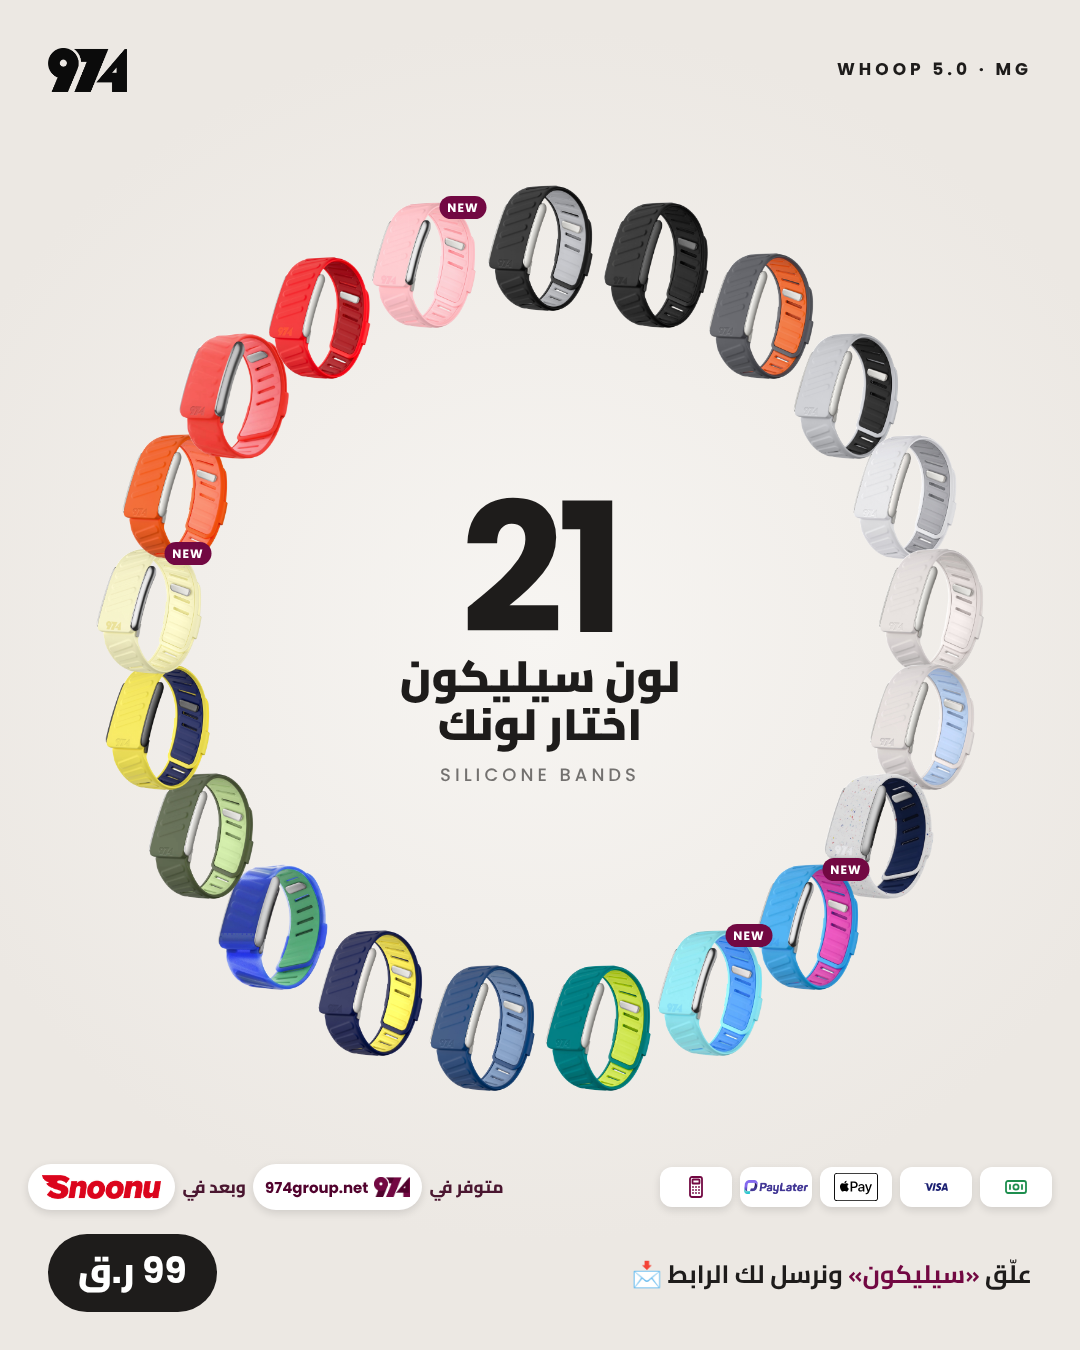
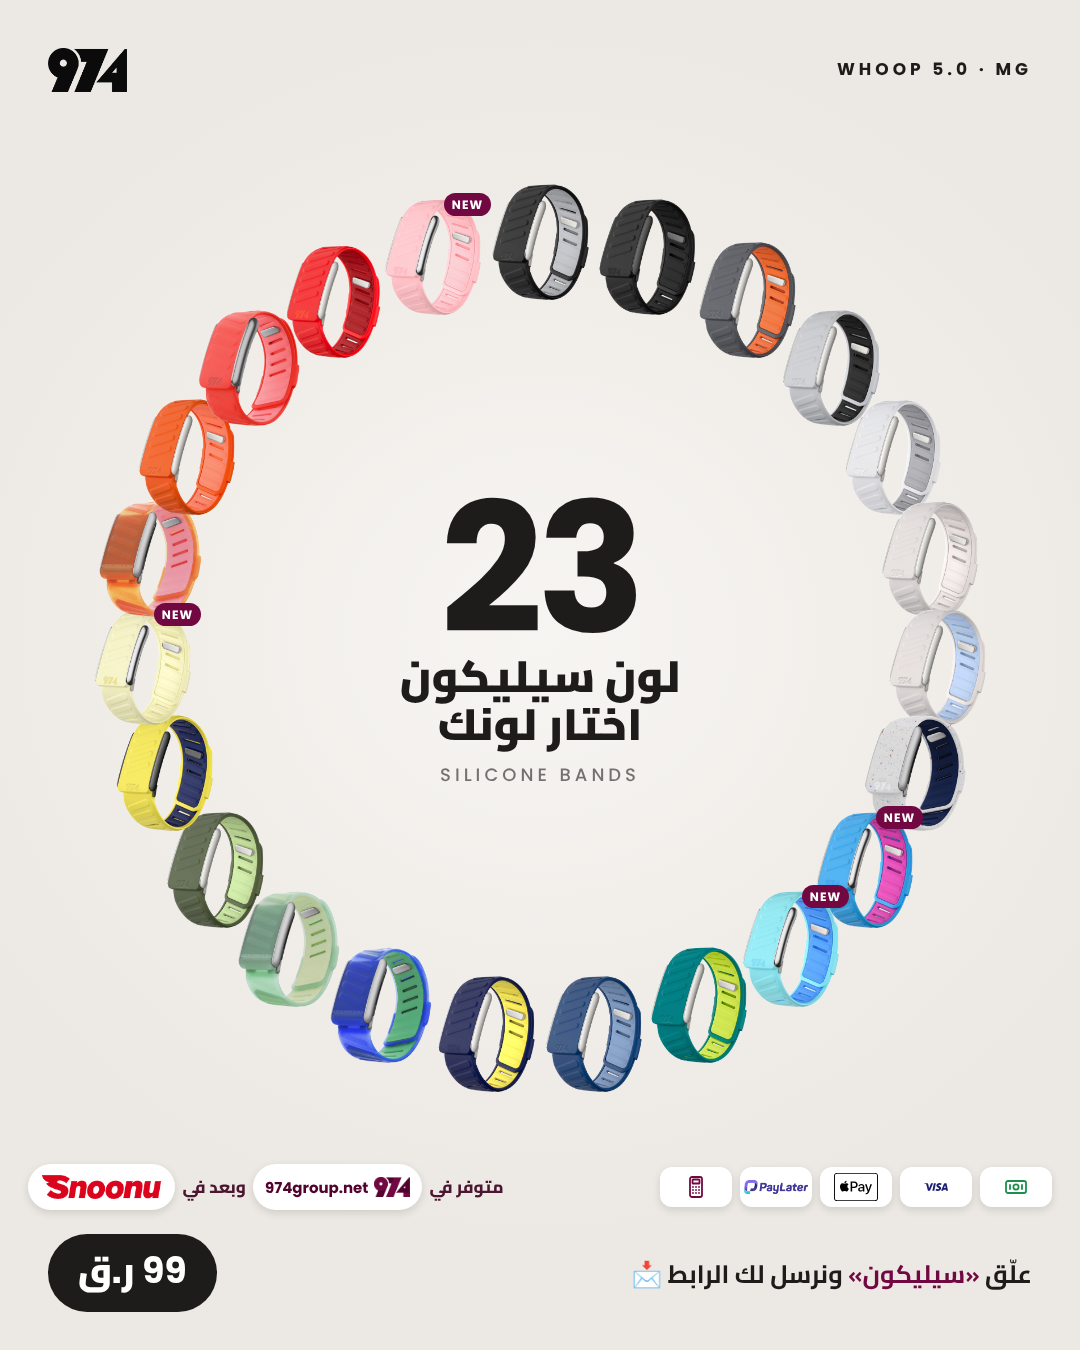
Silicone ring: add Drenched Green + Orange (23 colours)
Claude-Session: https://claude.ai/code/session_01K6HDWNrArsGSJekW1VcEzV

Changed region(s): [[0.0917, 0.1244, 0.9167, 0.8089], [0.3972, 0.3733, 0.6111, 0.4667]]

diff --git a/posts/2026-11/whoop5-silicone-all/974-w5-silicone-all-story.html b/posts/2026-11/whoop5-silicone-all/974-w5-silicone-all-story.html
@@ -35,8 +35,8 @@ body{width:1080px;height:1920px;background:radial-gradient(60% 45% at 50% 50%,#F
 </style></head><body>
 <img class="abs" src="file:///home/claude/974-social/posts/2026-11/pilates-socks/src/logo-black.png" style="left:48px;top:200px;height:44px">
 <div class="abs en" style="right:48px;top:208px;font-weight:700;font-size:17px;letter-spacing:4px">WHOOP 5.0 · MG</div>
-<div class="b" style="left:540px;top:540px;height:142px"><img src="file:///home/claude/974-social/posts/2026-11/whoop5-silicone-all/cut/black.png"></div><div class="b" style="left:664px;top:559px;height:142px"><img src="file:///home/claude/974-social/posts/2026-11/whoop5-silicone-all/cut/black-ed.png"></div><div class="b" style="left:777px;top:613px;height:142px"><img src="file:///home/claude/974-social/posts/2026-11/whoop5-silicone-all/cut/darkgrey.png"></div><div class="b" style="left:868px;top:698px;height:142px"><img src="file:///home/claude/974-social/posts/2026-11/whoop5-silicone-all/cut/greyblack.png"></div><div class="b" style="left:931px;top:807px;height:142px"><img src="file:///home/claude/974-social/posts/2026-11/whoop5-silicone-all/cut/whitegrey.png"></div><div class="b" style="left:959px;top:929px;height:142px"><img src="file:///home/claude/974-social/posts/2026-11/whoop5-silicone-all/cut/creamy.png"></div><div class="b" style="left:949px;top:1053px;height:142px"><img src="file:///home/claude/974-social/posts/2026-11/whoop5-silicone-all/cut/creamyblue.png"></div><div class="b" style="left:904px;top:1170px;height:142px"><img src="file:///home/claude/974-social/posts/2026-11/whoop5-silicone-all/cut/splash.png"></div><div class="b" style="left:826px;top:1268px;height:142px"><img src="file:///home/claude/974-social/posts/2026-11/whoop5-silicone-all/cut/babyblue.png"></div><div class="b" style="left:722px;top:1338px;height:142px"><img src="file:///home/claude/974-social/posts/2026-11/whoop5-silicone-all/cut/iceblue.png"></div><div class="b" style="left:603px;top:1375px;height:142px"><img src="file:///home/claude/974-social/posts/2026-11/whoop5-silicone-all/cut/turquoise.png"></div><div class="b" style="left:477px;top:1375px;height:142px"><img src="file:///home/claude/974-social/posts/2026-11/whoop5-silicone-all/cut/blue.png"></div><div class="b" style="left:358px;top:1338px;height:142px"><img src="file:///home/claude/974-social/posts/2026-11/whoop5-silicone-all/cut/navyyellow.png"></div><div class="b" style="left:254px;top:1268px;height:142px"><img src="file:///home/claude/974-social/posts/2026-11/whoop5-silicone-all/cut/drenched.png"></div><div class="b" style="left:176px;top:1170px;height:142px"><img src="file:///home/claude/974-social/posts/2026-11/whoop5-silicone-all/cut/greenarmy.png"></div><div class="b" style="left:131px;top:1053px;height:142px"><img src="file:///home/claude/974-social/posts/2026-11/whoop5-silicone-all/cut/yellownavy.png"></div><div class="b" style="left:121px;top:929px;height:142px"><img src="file:///home/claude/974-social/posts/2026-11/whoop5-silicone-all/cut/yellow.png"></div><div class="b" style="left:149px;top:807px;height:142px"><img src="file:///home/claude/974-social/posts/2026-11/whoop5-silicone-all/cut/orange.png"></div><div class="b" style="left:212px;top:698px;height:142px"><img src="file:///home/claude/974-social/posts/2026-11/whoop5-silicone-all/cut/scarlet.png"></div><div class="b" style="left:303px;top:613px;height:142px"><img src="file:///home/claude/974-social/posts/2026-11/whoop5-silicone-all/cut/red.png"></div><div class="b" style="left:416px;top:559px;height:142px"><img src="file:///home/claude/974-social/posts/2026-11/whoop5-silicone-all/cut/pink.png"></div><div class="b" style="left:826px;top:1268px;height:142px;width:118px;z-index:5"><span class="nw">NEW</span></div><div class="b" style="left:722px;top:1338px;height:142px;width:118px;z-index:5"><span class="nw">NEW</span></div><div class="b" style="left:121px;top:929px;height:142px;width:118px;z-index:5"><span class="nw">NEW</span></div><div class="b" style="left:416px;top:559px;height:142px;width:118px;z-index:5"><span class="nw">NEW</span></div>
-<div class="mid"><b>21</b><i>لون سيليكون<br>اختار لونك</i><em>SILICONE BANDS</em></div>
+<div class="b" style="left:540px;top:510px;height:128px"><img src="file:///home/claude/974-social/posts/2026-11/whoop5-silicone-all/cut/black.png"></div><div class="b" style="left:661px;top:527px;height:128px"><img src="file:///home/claude/974-social/posts/2026-11/whoop5-silicone-all/cut/black-ed.png"></div><div class="b" style="left:774px;top:576px;height:128px"><img src="file:///home/claude/974-social/posts/2026-11/whoop5-silicone-all/cut/darkgrey.png"></div><div class="b" style="left:869px;top:653px;height:128px"><img src="file:///home/claude/974-social/posts/2026-11/whoop5-silicone-all/cut/greyblack.png"></div><div class="b" style="left:940px;top:753px;height:128px"><img src="file:///home/claude/974-social/posts/2026-11/whoop5-silicone-all/cut/whitegrey.png"></div><div class="b" style="left:981px;top:868px;height:128px"><img src="file:///home/claude/974-social/posts/2026-11/whoop5-silicone-all/cut/creamy.png"></div><div class="b" style="left:989px;top:991px;height:128px"><img src="file:///home/claude/974-social/posts/2026-11/whoop5-silicone-all/cut/creamyblue.png"></div><div class="b" style="left:964px;top:1111px;height:128px"><img src="file:///home/claude/974-social/posts/2026-11/whoop5-silicone-all/cut/splash.png"></div><div class="b" style="left:908px;top:1220px;height:128px"><img src="file:///home/claude/974-social/posts/2026-11/whoop5-silicone-all/cut/babyblue.png"></div><div class="b" style="left:824px;top:1309px;height:128px"><img src="file:///home/claude/974-social/posts/2026-11/whoop5-silicone-all/cut/iceblue.png"></div><div class="b" style="left:719px;top:1373px;height:128px"><img src="file:///home/claude/974-social/posts/2026-11/whoop5-silicone-all/cut/turquoise.png"></div><div class="b" style="left:601px;top:1406px;height:128px"><img src="file:///home/claude/974-social/posts/2026-11/whoop5-silicone-all/cut/blue.png"></div><div class="b" style="left:479px;top:1406px;height:128px"><img src="file:///home/claude/974-social/posts/2026-11/whoop5-silicone-all/cut/navyyellow.png"></div><div class="b" style="left:361px;top:1373px;height:128px"><img src="file:///home/claude/974-social/posts/2026-11/whoop5-silicone-all/cut/drenched.png"></div><div class="b" style="left:256px;top:1309px;height:128px"><img src="file:///home/claude/974-social/posts/2026-11/whoop5-silicone-all/cut/drenched-green.png"></div><div class="b" style="left:172px;top:1220px;height:128px"><img src="file:///home/claude/974-social/posts/2026-11/whoop5-silicone-all/cut/greenarmy.png"></div><div class="b" style="left:116px;top:1111px;height:128px"><img src="file:///home/claude/974-social/posts/2026-11/whoop5-silicone-all/cut/yellownavy.png"></div><div class="b" style="left:91px;top:991px;height:128px"><img src="file:///home/claude/974-social/posts/2026-11/whoop5-silicone-all/cut/yellow.png"></div><div class="b" style="left:99px;top:868px;height:128px"><img src="file:///home/claude/974-social/posts/2026-11/whoop5-silicone-all/cut/drenched-orange.png"></div><div class="b" style="left:140px;top:753px;height:128px"><img src="file:///home/claude/974-social/posts/2026-11/whoop5-silicone-all/cut/orange.png"></div><div class="b" style="left:211px;top:653px;height:128px"><img src="file:///home/claude/974-social/posts/2026-11/whoop5-silicone-all/cut/scarlet.png"></div><div class="b" style="left:306px;top:576px;height:128px"><img src="file:///home/claude/974-social/posts/2026-11/whoop5-silicone-all/cut/red.png"></div><div class="b" style="left:419px;top:527px;height:128px"><img src="file:///home/claude/974-social/posts/2026-11/whoop5-silicone-all/cut/pink.png"></div><div class="b" style="left:908px;top:1220px;height:128px;width:106px;z-index:5"><span class="nw">NEW</span></div><div class="b" style="left:824px;top:1309px;height:128px;width:106px;z-index:5"><span class="nw">NEW</span></div><div class="b" style="left:91px;top:991px;height:128px;width:106px;z-index:5"><span class="nw">NEW</span></div><div class="b" style="left:419px;top:527px;height:128px;width:106px;z-index:5"><span class="nw">NEW</span></div>
+<div class="mid"><b>23</b><i>لون سيليكون<br>اختار لونك</i><em>SILICONE BANDS</em></div>
 <div class="pf"><div class="payfoot"><div class="pills">
 <div class="ch"><div class="lg"><svg viewBox="0 0 24 24" style="height:54px" fill="none" stroke="#1E8E4E" stroke-width="1.8" stroke-linecap="round" stroke-linejoin="round"><rect x="2" y="6" width="20" height="12" rx="2"/><circle cx="12" cy="12" r="2.6"/><path d="M6 10v4M18 10v4"/></svg></div><i>كاش</i></div>
 <div class="ch"><div class="lg"><svg fill="#1A1F71" style="height:120px;width:150px" xmlns="http://www.w3.org/2000/svg" viewBox="0 0 24 24"><path d="M9.112 8.262 5.97 15.758H3.92L2.374 9.775c-.094-.368-.175-.503-.461-.658C1.447 8.864.677 8.627 0 8.479l.046-.217h3.3a.904.904 0 0 1 .894.764l.817 4.338 2.018-5.102zm8.033 5.049c.008-1.979-2.736-2.088-2.717-2.972.006-.269.262-.555.822-.628a3.66 3.66 0 0 1 1.913.336l.34-1.59a5.2 5.2 0 0 0-1.814-.333c-1.917 0-3.266 1.02-3.278 2.479-.012 1.079.963 1.68 1.698 2.04.756.367 1.01.603 1.006.931-.005.504-.602.725-1.16.734-.975.015-1.54-.263-1.992-.473l-.351 1.642c.453.208 1.289.39 2.156.398 2.037 0 3.37-1.006 3.377-2.564m5.061 2.447H24l-1.565-7.496h-1.656a.88.88 0 0 0-.826.55l-2.909 6.946h2.036l.405-1.12h2.488zm-2.163-2.656 1.02-2.815.588 2.815zm-8.16-4.84-1.603 7.496H8.34l1.605-7.496z"/></svg></div><i>Visa</i></div>

diff --git a/posts/2026-11/whoop5-silicone-all/974-w5-silicone-all-post.html b/posts/2026-11/whoop5-silicone-all/974-w5-silicone-all-post.html
@@ -35,8 +35,8 @@ body{width:1080px;height:1350px;background:radial-gradient(60% 45% at 50% 47%,#F
 </style></head><body>
 <img class="abs" src="file:///home/claude/974-social/posts/2026-11/pilates-socks/src/logo-black.png" style="left:48px;top:48px;height:44px">
 <div class="abs en" style="right:48px;top:56px;font-weight:700;font-size:17px;letter-spacing:4px">WHOOP 5.0 · MG</div>
-<div class="b" style="left:540px;top:248px;height:126px"><img src="file:///home/claude/974-social/posts/2026-11/whoop5-silicone-all/cut/black.png"></div><div class="b" style="left:656px;top:265px;height:126px"><img src="file:///home/claude/974-social/posts/2026-11/whoop5-silicone-all/cut/black-ed.png"></div><div class="b" style="left:761px;top:316px;height:126px"><img src="file:///home/claude/974-social/posts/2026-11/whoop5-silicone-all/cut/darkgrey.png"></div><div class="b" style="left:846px;top:396px;height:126px"><img src="file:///home/claude/974-social/posts/2026-11/whoop5-silicone-all/cut/greyblack.png"></div><div class="b" style="left:905px;top:497px;height:126px"><img src="file:///home/claude/974-social/posts/2026-11/whoop5-silicone-all/cut/whitegrey.png"></div><div class="b" style="left:931px;top:611px;height:126px"><img src="file:///home/claude/974-social/posts/2026-11/whoop5-silicone-all/cut/creamy.png"></div><div class="b" style="left:922px;top:727px;height:126px"><img src="file:///home/claude/974-social/posts/2026-11/whoop5-silicone-all/cut/creamyblue.png"></div><div class="b" style="left:879px;top:836px;height:126px"><img src="file:///home/claude/974-social/posts/2026-11/whoop5-silicone-all/cut/splash.png"></div><div class="b" style="left:807px;top:927px;height:126px"><img src="file:///home/claude/974-social/posts/2026-11/whoop5-silicone-all/cut/babyblue.png"></div><div class="b" style="left:710px;top:993px;height:126px"><img src="file:///home/claude/974-social/posts/2026-11/whoop5-silicone-all/cut/iceblue.png"></div><div class="b" style="left:598px;top:1028px;height:126px"><img src="file:///home/claude/974-social/posts/2026-11/whoop5-silicone-all/cut/turquoise.png"></div><div class="b" style="left:482px;top:1028px;height:126px"><img src="file:///home/claude/974-social/posts/2026-11/whoop5-silicone-all/cut/blue.png"></div><div class="b" style="left:370px;top:993px;height:126px"><img src="file:///home/claude/974-social/posts/2026-11/whoop5-silicone-all/cut/navyyellow.png"></div><div class="b" style="left:273px;top:927px;height:126px"><img src="file:///home/claude/974-social/posts/2026-11/whoop5-silicone-all/cut/drenched.png"></div><div class="b" style="left:201px;top:836px;height:126px"><img src="file:///home/claude/974-social/posts/2026-11/whoop5-silicone-all/cut/greenarmy.png"></div><div class="b" style="left:158px;top:727px;height:126px"><img src="file:///home/claude/974-social/posts/2026-11/whoop5-silicone-all/cut/yellownavy.png"></div><div class="b" style="left:149px;top:611px;height:126px"><img src="file:///home/claude/974-social/posts/2026-11/whoop5-silicone-all/cut/yellow.png"></div><div class="b" style="left:175px;top:497px;height:126px"><img src="file:///home/claude/974-social/posts/2026-11/whoop5-silicone-all/cut/orange.png"></div><div class="b" style="left:234px;top:396px;height:126px"><img src="file:///home/claude/974-social/posts/2026-11/whoop5-silicone-all/cut/scarlet.png"></div><div class="b" style="left:319px;top:316px;height:126px"><img src="file:///home/claude/974-social/posts/2026-11/whoop5-silicone-all/cut/red.png"></div><div class="b" style="left:424px;top:265px;height:126px"><img src="file:///home/claude/974-social/posts/2026-11/whoop5-silicone-all/cut/pink.png"></div><div class="b" style="left:807px;top:927px;height:126px;width:105px;z-index:5"><span class="nw">NEW</span></div><div class="b" style="left:710px;top:993px;height:126px;width:105px;z-index:5"><span class="nw">NEW</span></div><div class="b" style="left:149px;top:611px;height:126px;width:105px;z-index:5"><span class="nw">NEW</span></div><div class="b" style="left:424px;top:265px;height:126px;width:105px;z-index:5"><span class="nw">NEW</span></div>
-<div class="mid"><b>21</b><i>لون سيليكون<br>اختار لونك</i><em>SILICONE BANDS</em></div>
+<div class="b" style="left:540px;top:242px;height:116px"><img src="file:///home/claude/974-social/posts/2026-11/whoop5-silicone-all/cut/black.png"></div><div class="b" style="left:647px;top:257px;height:116px"><img src="file:///home/claude/974-social/posts/2026-11/whoop5-silicone-all/cut/black-ed.png"></div><div class="b" style="left:747px;top:300px;height:116px"><img src="file:///home/claude/974-social/posts/2026-11/whoop5-silicone-all/cut/darkgrey.png"></div><div class="b" style="left:831px;top:368px;height:116px"><img src="file:///home/claude/974-social/posts/2026-11/whoop5-silicone-all/cut/greyblack.png"></div><div class="b" style="left:893px;top:457px;height:116px"><img src="file:///home/claude/974-social/posts/2026-11/whoop5-silicone-all/cut/whitegrey.png"></div><div class="b" style="left:930px;top:559px;height:116px"><img src="file:///home/claude/974-social/posts/2026-11/whoop5-silicone-all/cut/creamy.png"></div><div class="b" style="left:937px;top:667px;height:116px"><img src="file:///home/claude/974-social/posts/2026-11/whoop5-silicone-all/cut/creamyblue.png"></div><div class="b" style="left:915px;top:773px;height:116px"><img src="file:///home/claude/974-social/posts/2026-11/whoop5-silicone-all/cut/splash.png"></div><div class="b" style="left:865px;top:870px;height:116px"><img src="file:///home/claude/974-social/posts/2026-11/whoop5-silicone-all/cut/babyblue.png"></div><div class="b" style="left:791px;top:949px;height:116px"><img src="file:///home/claude/974-social/posts/2026-11/whoop5-silicone-all/cut/iceblue.png"></div><div class="b" style="left:699px;top:1005px;height:116px"><img src="file:///home/claude/974-social/posts/2026-11/whoop5-silicone-all/cut/turquoise.png"></div><div class="b" style="left:594px;top:1034px;height:116px"><img src="file:///home/claude/974-social/posts/2026-11/whoop5-silicone-all/cut/blue.png"></div><div class="b" style="left:486px;top:1034px;height:116px"><img src="file:///home/claude/974-social/posts/2026-11/whoop5-silicone-all/cut/navyyellow.png"></div><div class="b" style="left:381px;top:1005px;height:116px"><img src="file:///home/claude/974-social/posts/2026-11/whoop5-silicone-all/cut/drenched.png"></div><div class="b" style="left:289px;top:949px;height:116px"><img src="file:///home/claude/974-social/posts/2026-11/whoop5-silicone-all/cut/drenched-green.png"></div><div class="b" style="left:215px;top:870px;height:116px"><img src="file:///home/claude/974-social/posts/2026-11/whoop5-silicone-all/cut/greenarmy.png"></div><div class="b" style="left:165px;top:773px;height:116px"><img src="file:///home/claude/974-social/posts/2026-11/whoop5-silicone-all/cut/yellownavy.png"></div><div class="b" style="left:143px;top:667px;height:116px"><img src="file:///home/claude/974-social/posts/2026-11/whoop5-silicone-all/cut/yellow.png"></div><div class="b" style="left:150px;top:559px;height:116px"><img src="file:///home/claude/974-social/posts/2026-11/whoop5-silicone-all/cut/drenched-orange.png"></div><div class="b" style="left:187px;top:457px;height:116px"><img src="file:///home/claude/974-social/posts/2026-11/whoop5-silicone-all/cut/orange.png"></div><div class="b" style="left:249px;top:368px;height:116px"><img src="file:///home/claude/974-social/posts/2026-11/whoop5-silicone-all/cut/scarlet.png"></div><div class="b" style="left:333px;top:300px;height:116px"><img src="file:///home/claude/974-social/posts/2026-11/whoop5-silicone-all/cut/red.png"></div><div class="b" style="left:433px;top:257px;height:116px"><img src="file:///home/claude/974-social/posts/2026-11/whoop5-silicone-all/cut/pink.png"></div><div class="b" style="left:865px;top:870px;height:116px;width:96px;z-index:5"><span class="nw">NEW</span></div><div class="b" style="left:791px;top:949px;height:116px;width:96px;z-index:5"><span class="nw">NEW</span></div><div class="b" style="left:143px;top:667px;height:116px;width:96px;z-index:5"><span class="nw">NEW</span></div><div class="b" style="left:433px;top:257px;height:116px;width:96px;z-index:5"><span class="nw">NEW</span></div>
+<div class="mid"><b>23</b><i>لون سيليكون<br>اختار لونك</i><em>SILICONE BANDS</em></div>
 <div class="pf"><div class="payfoot"><div class="pills">
 <div class="ch"><div class="lg"><svg viewBox="0 0 24 24" style="height:54px" fill="none" stroke="#1E8E4E" stroke-width="1.8" stroke-linecap="round" stroke-linejoin="round"><rect x="2" y="6" width="20" height="12" rx="2"/><circle cx="12" cy="12" r="2.6"/><path d="M6 10v4M18 10v4"/></svg></div><i>كاش</i></div>
 <div class="ch"><div class="lg"><svg fill="#1A1F71" style="height:120px;width:150px" xmlns="http://www.w3.org/2000/svg" viewBox="0 0 24 24"><path d="M9.112 8.262 5.97 15.758H3.92L2.374 9.775c-.094-.368-.175-.503-.461-.658C1.447 8.864.677 8.627 0 8.479l.046-.217h3.3a.904.904 0 0 1 .894.764l.817 4.338 2.018-5.102zm8.033 5.049c.008-1.979-2.736-2.088-2.717-2.972.006-.269.262-.555.822-.628a3.66 3.66 0 0 1 1.913.336l.34-1.59a5.2 5.2 0 0 0-1.814-.333c-1.917 0-3.266 1.02-3.278 2.479-.012 1.079.963 1.68 1.698 2.04.756.367 1.01.603 1.006.931-.005.504-.602.725-1.16.734-.975.015-1.54-.263-1.992-.473l-.351 1.642c.453.208 1.289.39 2.156.398 2.037 0 3.37-1.006 3.377-2.564m5.061 2.447H24l-1.565-7.496h-1.656a.88.88 0 0 0-.826.55l-2.909 6.946h2.036l.405-1.12h2.488zm-2.163-2.656 1.02-2.815.588 2.815zm-8.16-4.84-1.603 7.496H8.34l1.605-7.496z"/></svg></div><i>Visa</i></div>

diff --git a/posts/2026-11/whoop5-silicone-all/gen.py b/posts/2026-11/whoop5-silicone-all/gen.py
@@ -3,14 +3,14 @@ sys.path.insert(0,'/home/claude/974-social/templates'); import payfoot
 SP='/tmp/claude-0/-home-claude/bcc2c2d5-4d57-5df4-9795-f402b1a1cd9a/scratchpad'
 C=os.path.abspath('cut')+'/'
 LOGO='/home/claude/974-social/posts/2026-11/pilates-socks/src/logo-black.png'
-# colour-wheel order (21 in stock)
+# colour-wheel order (23 in stock)
 RING=['black','black-ed','darkgrey','greyblack','whitegrey','creamy','creamyblue','splash','babyblue','iceblue','turquoise',
-      'blue','navyyellow','drenched','greenarmy','yellownavy','yellow','orange','scarlet','red','pink']
+      'blue','navyyellow','drenched','drenched-green','greenarmy','yellownavy','yellow','drenched-orange','orange','scarlet','red','pink']
 NEW={'yellow','pink','babyblue','iceblue'}
 BG='#ECE8E3'; INK='#1E1C1B'
 def page(story):
     W,H=1080,(1920 if story else 1350)
-    cx=540; cy=(960 if story else 640); R=(420 if story else 392); bh=(142 if story else 126)
+    cx=540; cy=(960 if story else 640); R=(450 if story else 398); bh=(128 if story else 116)
     items='';badges=''
     for i,n in enumerate(RING):
         a=-math.pi/2+2*math.pi*i/len(RING)
@@ -41,7 +41,7 @@ body{{width:{W}px;height:{H}px;background:radial-gradient(60% 45% at 50% {cy/H*1
 <img class="abs" src="file://{LOGO}" style="left:48px;top:{t}px;height:44px">
 <div class="abs en" style="right:48px;top:{t+8}px;font-weight:700;font-size:17px;letter-spacing:4px">WHOOP 5.0 · MG</div>
 {items}{badges}
-<div class="mid"><b>21</b><i>لون سيليكون<br>اختار لونك</i><em>SILICONE BANDS</em></div>
+<div class="mid"><b>23</b><i>لون سيليكون<br>اختار لونك</i><em>SILICONE BANDS</em></div>
 <div class="pf">{payfoot.html()}</div>
 <div class="foot"><div class="cta">علّق <em>«سيليكون»</em> ونرسل لك الرابط 📩</div><div class="price"><b>99</b> ر.ق</div></div>
 </body></html>'''
